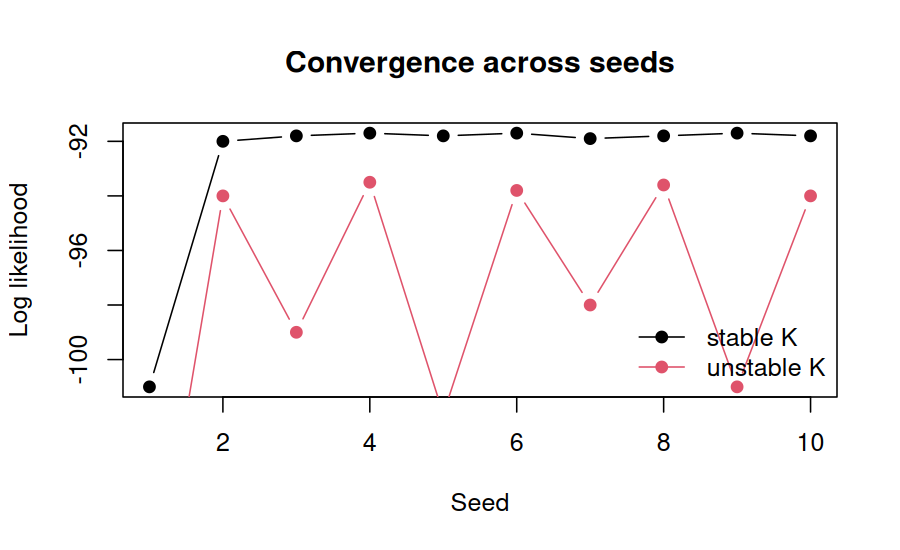
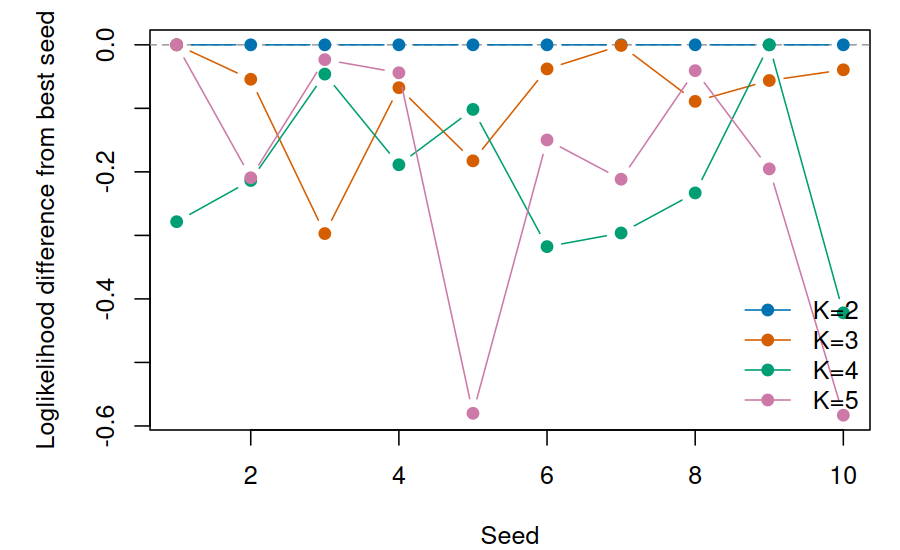
Run and harden ADMIXTURE tutorial

diff --git a/admixture/README.md b/admixture/README.md
@@ -45,22 +45,15 @@ mkdir -p data results figures
 Download the data if they are not already present:
 
 ```bash
-mkdir -p data
-wget -nc -P data "${DATA_URL}/example.bed"
-wget -nc -P data "${DATA_URL}/example.bim"
-wget -nc -P data "${DATA_URL}/example.fam"
+bash code/00_download_data.sh
 ```
 
-<details>
-<summary>Example stdout</summary>
+After installing the software in the folded section below, the complete tutorial can be run with:
 
-```text
-File 'data/example.bed' already there; not retrieving.
-File 'data/example.bim' already there; not retrieving.
-File 'data/example.fam' already there; not retrieving.
+```bash
+bash code/01_run_admixture.sh
+Rscript code/02_plot_admixture.R
 ```
-
-</details>
 
 <details>
 <summary>Install software</summary>
@@ -71,35 +64,43 @@ PLINK documentation: https://www.cog-genomics.org/plink/
 
 PCAone documentation: https://github.com/Zilong-Li/PCAone
 
-Install locally under `../software/`:
+Install locally under `software/`. Each block checks whether the executable is already present before downloading anything.
 
 ```bash
-SOFTWARE_DIR=../software
-mkdir -p "${SOFTWARE_DIR}"
-cd "${SOFTWARE_DIR}"
+mkdir -p software
 
-wget -nc https://dalexander.github.io/admixture/binaries/admixture_linux-1.3.0.tar.gz
-tar -xzf admixture_linux-1.3.0.tar.gz
+if [ ! -x software/dist/admixture_linux-1.3.0/admixture ]
+then
+  curl -L https://dalexander.github.io/admixture/binaries/admixture_linux-1.3.0.tar.gz \
+    -o software/admixture_linux-1.3.0.tar.gz
+  tar -xzf software/admixture_linux-1.3.0.tar.gz -C software
+fi
 
-wget -nc https://s3.amazonaws.com/plink1-assets/plink_linux_x86_64_20241022.zip
-unzip -n plink_linux_x86_64_20241022.zip -d plink
+if [ ! -x software/plink/plink ]
+then
+  curl -L https://s3.amazonaws.com/plink1-assets/plink_linux_x86_64_20241022.zip \
+    -o software/plink_linux_x86_64_20241022.zip
+  unzip -n software/plink_linux_x86_64_20241022.zip -d software/plink
+fi
 
-wget -nc https://github.com/Zilong-Li/PCAone/releases/latest/download/PCAone-Linux.zip
-unzip -n PCAone-Linux.zip
-chmod +x PCAone
+if [ ! -x software/PCAone ]
+then
+  curl -L https://github.com/Zilong-Li/PCAone/releases/latest/download/PCAone-Linux.zip \
+    -o software/PCAone-Linux.zip
+  unzip -n software/PCAone-Linux.zip -d software
+  chmod +x software/PCAone
+fi
 
-cd -
-export PATH="$(pwd)/${SOFTWARE_DIR}/admixture_linux-1.3.0:$(pwd)/${SOFTWARE_DIR}/plink:$(pwd)/${SOFTWARE_DIR}:${PATH}"
+ADMIXTURE=software/dist/admixture_linux-1.3.0/admixture
+PLINK=software/plink/plink
+PCAONE=software/PCAone
 
-which admixture
-admixture --help | head
-
-which plink
-plink --help | head
-
-which PCAone
-PCAone --help | head
+"${ADMIXTURE}" --help >/dev/null || true
+"${PLINK}" --help >/dev/null || true
+"${PCAONE}" --help >/dev/null || true
 ```
+
+The same commands are collected in `code/00_install_software.sh`.
 
 </details>
 
@@ -112,7 +113,9 @@ First inspect the input data and apply simple genotype filters. The MAF cutoff r
 ```bash
 mkdir -p results
 
-plink --bfile data/example \
+PLINK=software/plink/plink
+
+"${PLINK}" --bfile data/example \
   --maf 0.05 \
   --geno 0.01 \
   --make-bed \
@@ -141,23 +144,22 @@ This data set has population structure, so we do not use PLINK for LD pruning. S
 First run PCAone and save the top 10 PCs and SNP loadings. The PCs are later plotted to show whether the sample labels match the major axes of structure.
 
 ```bash
-PCAone -b results/example.qc -k 10 -V -o results/example.pcaone
+PCAONE=software/PCAone
+
+"${PCAONE}" -b results/example.qc -k 10 -V -o results/example.pcaone
 ```
 
 <details>
 <summary>Example stdout</summary>
 
 ```text
-PCA All In One (PCAone)
-Input PLINK prefix: results/example.qc
-Number of samples: 120
-Number of SNPs: 6676750
-Number of PCs: 10
-Output: results/example.pcaone.eigvals
-Output: results/example.pcaone.eigvecs
-Output: results/example.pcaone.eigvecs2
-Output: results/example.pcaone.loadings
-Output: results/example.pcaone.mbim
+PCAone (v0.6.0)
+N (# samples): 120, M (# SNPs): 6676750
+running of epoch =  6, diff = 1.19257e-05
+stops at epoch =  7
+eigen vectors and values saved
+PCAone - Randomized SVD done
+total elapsed wall time: 118.371 seconds
 ```
 
 </details>
@@ -179,7 +181,7 @@ Figure 1. PCAone PC plots for PC1 vs PC2, PC3 vs PC4, PC5 vs PC6, PC7 vs PC8, an
 Next use the PCAone PCs/loadings to test HWE while accounting for population structure. The `.hwe` file contains one row per SNP, including an HWE P value and inbreeding coefficient. Here we keep SNPs with HWE P value at least `1e-6`; this threshold also depends on the data set and study design.
 
 ```bash
-PCAone -b results/example.qc \
+"${PCAONE}" -b results/example.qc \
   --USV results/example.pcaone \
   -k 10 \
   --inbreed 1 \
@@ -191,9 +193,9 @@ awk 'NR > 1 && $2 >= 1e-6 {print $1}' results/example.hwe.hwe > results/example.
 Now compute ancestry-adjusted LD and prune SNPs with `r2 > 0.2` within 1 Mb. PCAone writes `results/example.adjld.ld.prune.in`, the SNPs retained after adjusted-LD pruning.
 
 ```bash
-PCAone -b results/example.qc -k 10 --ld -o results/example.adjld
+"${PCAONE}" -b results/example.qc -k 10 --ld -o results/example.adjld
 
-PCAone -B results/example.adjld.residuals \
+"${PCAONE}" -B results/example.adjld.residuals \
   --match-bim results/example.adjld.mbim \
   --ld-r2 0.2 \
   --ld-bp 1000000 \
@@ -203,9 +205,11 @@ PCAone -B results/example.adjld.residuals \
 Finally, intersect the HWE-passing SNPs with the PCAone LD-pruned SNPs and create the PLINK data set used by ADMIXTURE.
 
 ```bash
-grep -Fxf results/example.adjld.ld.prune.in results/example.hwe.keep > results/example.keep.snps
+awk '{print $2}' results/example.adjld.ld.prune.in > results/example.adjld.ld.prune.ids
 
-plink --bfile results/example.qc \
+grep -Fxf results/example.adjld.ld.prune.ids results/example.hwe.keep > results/example.keep.snps
+
+"${PLINK}" --bfile results/example.qc \
   --extract results/example.keep.snps \
   --make-bed \
   --out results/example.pcaone_pruned
@@ -216,25 +220,26 @@ plink --bfile results/example.qc \
 
 ```text
 PCAone --inbreed 1
-Input PLINK prefix: results/example.qc
-Number of samples: 120
-Number of SNPs: 6676750
+N (# samples): 120, M (# SNPs): 6676750
+run inbreeding coefficient estimator
+EM inbreeding coefficient coverged
+compute the LRT test
 Output: results/example.hwe.hwe
-The number of SNPs passing HWE P >= 1e-6 is written by the filtering command.
+6652351 SNPs pass HWE P >= 1e-6
 
 PCAone adjusted LD pruning
-Input PLINK prefix: results/example.qc
-Number of samples: 120
-Number of SNPs: 6676750
+shape of input matrix (features x samples) is 6676750x 120
+LD pruning, choose sites to be kept randomly or with high MAF? 1(random) : 0(high MAF). =>  0
 Output: results/example.adjld.ld.prune.in
 Output: results/example.adjld.ld.prune.out
-The number of retained SNPs is written to results/example.adjld.ld.prune.in.
-The final SNP count is the intersection of the HWE-passing and LD-pruned lists.
+265731 SNPs retained after ancestry-adjusted LD pruning
+256171 SNPs remain after intersecting the HWE and LD-pruned lists
 
 PLINK v1.9
 6676750 variants loaded from .bim file.
-120 people loaded from .fam.
---extract: final SNP count written by PLINK.
+120 people (0 males, 0 females, 120 ambiguous) loaded from .fam.
+--extract: 256171 variants remaining.
+256171 variants and 120 people pass filters and QC.
 --make-bed to results/example.pcaone_pruned.bed + results/example.pcaone_pruned.bim + results/example.pcaone_pruned.fam ... done.
 ```
 
@@ -245,18 +250,30 @@ PLINK v1.9
 Run ADMIXTURE for several values of `K` and several independent random seeds. Different seeds can converge to different optima, especially for larger `K`, so we inspect convergence before interpreting the ancestry proportions.
 
 ```bash
+ADMIXTURE=software/dist/admixture_linux-1.3.0/admixture
+
 for K in 2 3 4 5
 do
   for SEED in $(seq 1 10)
   do
-    admixture -s "${SEED}" results/example.pcaone_pruned.bed "${K}" \
+    QOUT="results/example.pcaone_pruned.K${K}.seed${SEED}.Q"
+    POUT="results/example.pcaone_pruned.K${K}.seed${SEED}.P"
+    if [ -s "${QOUT}" ] && [ -s "${POUT}" ]
+    then
+      echo "Skipping K=${K} seed=${SEED}; output already exists."
+      continue
+    fi
+
+    "${ADMIXTURE}" -s "${SEED}" results/example.pcaone_pruned.bed "${K}" \
       | tee "results/admixture.K${K}.seed${SEED}.log"
 
-    mv "example.pcaone_pruned.${K}.Q" "results/example.pcaone_pruned.K${K}.seed${SEED}.Q"
-    mv "example.pcaone_pruned.${K}.P" "results/example.pcaone_pruned.K${K}.seed${SEED}.P"
+    mv "example.pcaone_pruned.${K}.Q" "${QOUT}"
+    mv "example.pcaone_pruned.${K}.P" "${POUT}"
   done
 done
 ```
+
+The full input-preparation and ADMIXTURE workflow is also in `code/01_run_admixture.sh`. It checks for existing output files before running each step.
 
 <details>
 <summary>Example stdout</summary>
@@ -264,9 +281,14 @@ done
 ```text
 ADMIXTURE Version 1.3.0
 Random seed: 1
-Input: results/example.pcaone_pruned.bed
-K: 3
-Loglikelihood: ...
+Size of G: 120x256171
+Converged in 16 iterations (50.313 sec)
+Loglikelihood: -26251070.702720
+Fst divergences between estimated populations:
+        Pop0    Pop1
+Pop0
+Pop1    0.207
+Pop2    0.172   0.100
 Writing output files.
 ```
 
@@ -304,7 +326,7 @@ Figure 2. ADMIXTURE ancestry barplot for `K=3`. Each vertical bar is one individ
 
 ![ADMIXTURE convergence summary](figures/admixture_convergence.png)
 
-Figure 3. Convergence summary across seeds and K values. The meaningful `K` is not chosen from cross-validation error; the tutorial should compare convergence, ancestry plots, and evalAdmix residual correlations.
+Figure 3. Convergence summary across seeds and K values. Each point shows the final loglikelihood difference from the best seed for that `K`; values near zero indicate repeated convergence to the same optimum. The meaningful `K` is not chosen from cross-validation error; the tutorial should compare convergence, ancestry plots, and evalAdmix residual correlations.
 
 The full plotting code is in `code/02_plot_admixture.R`. It writes:
 
